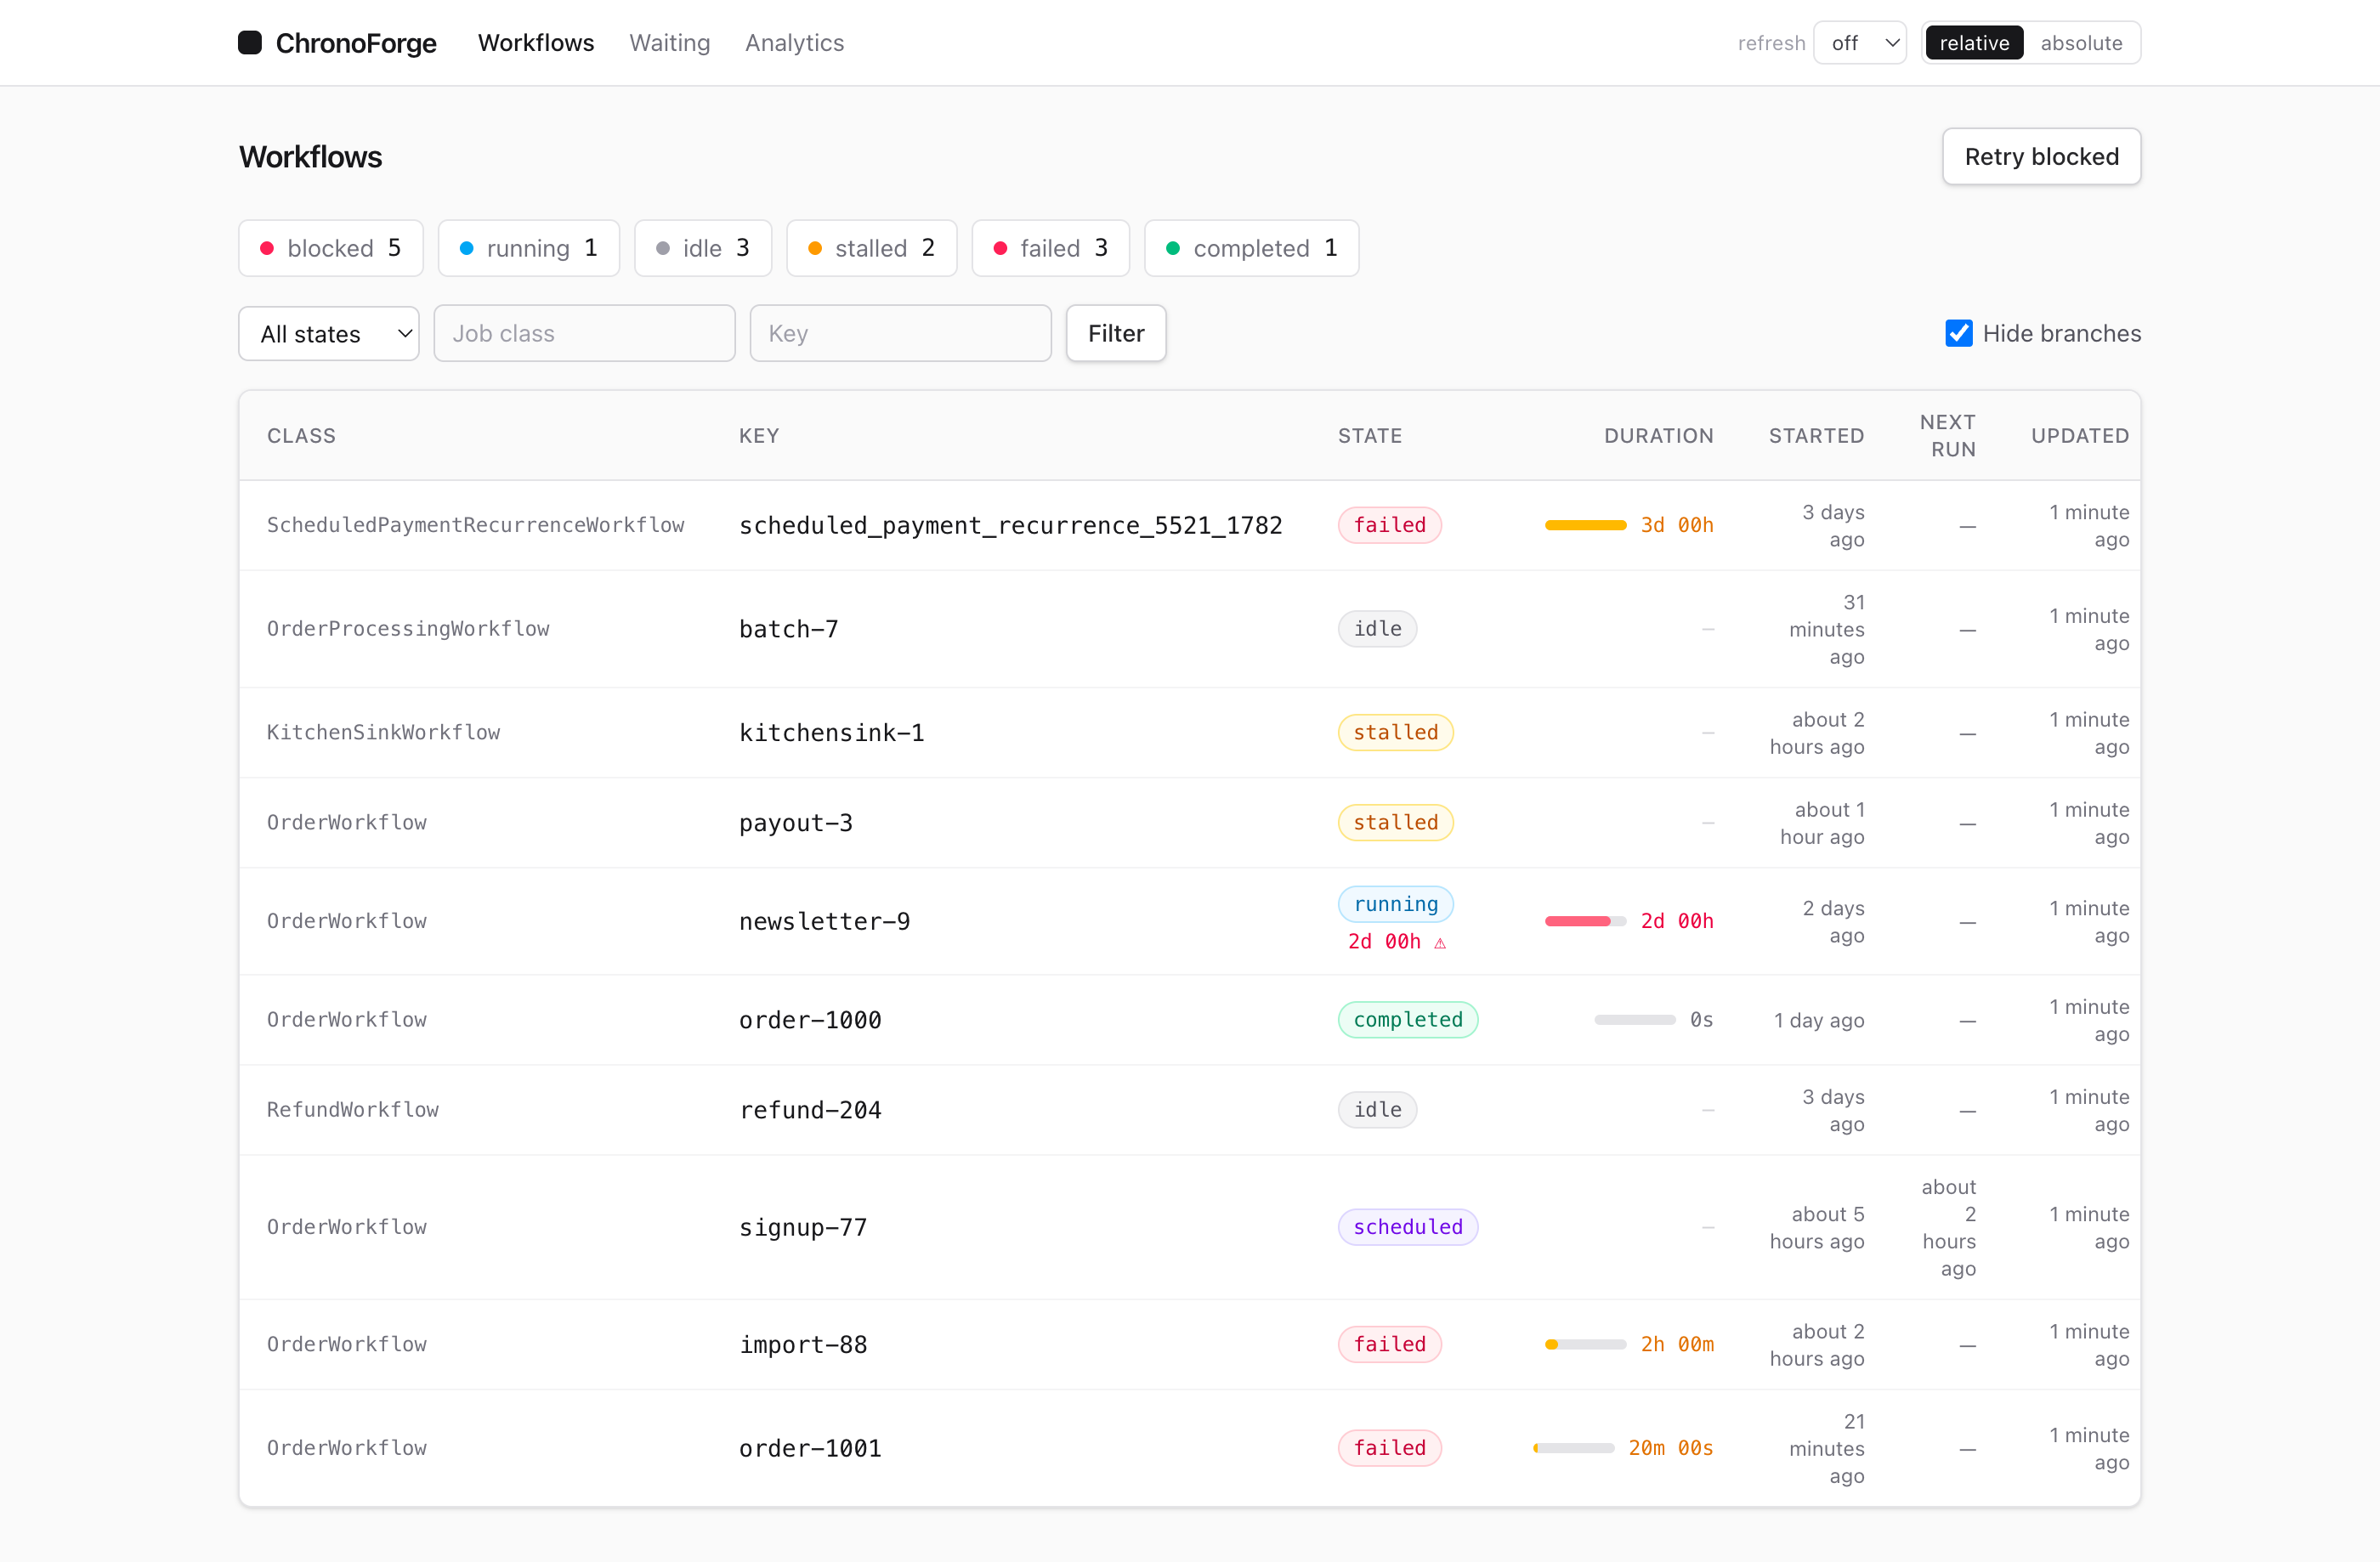
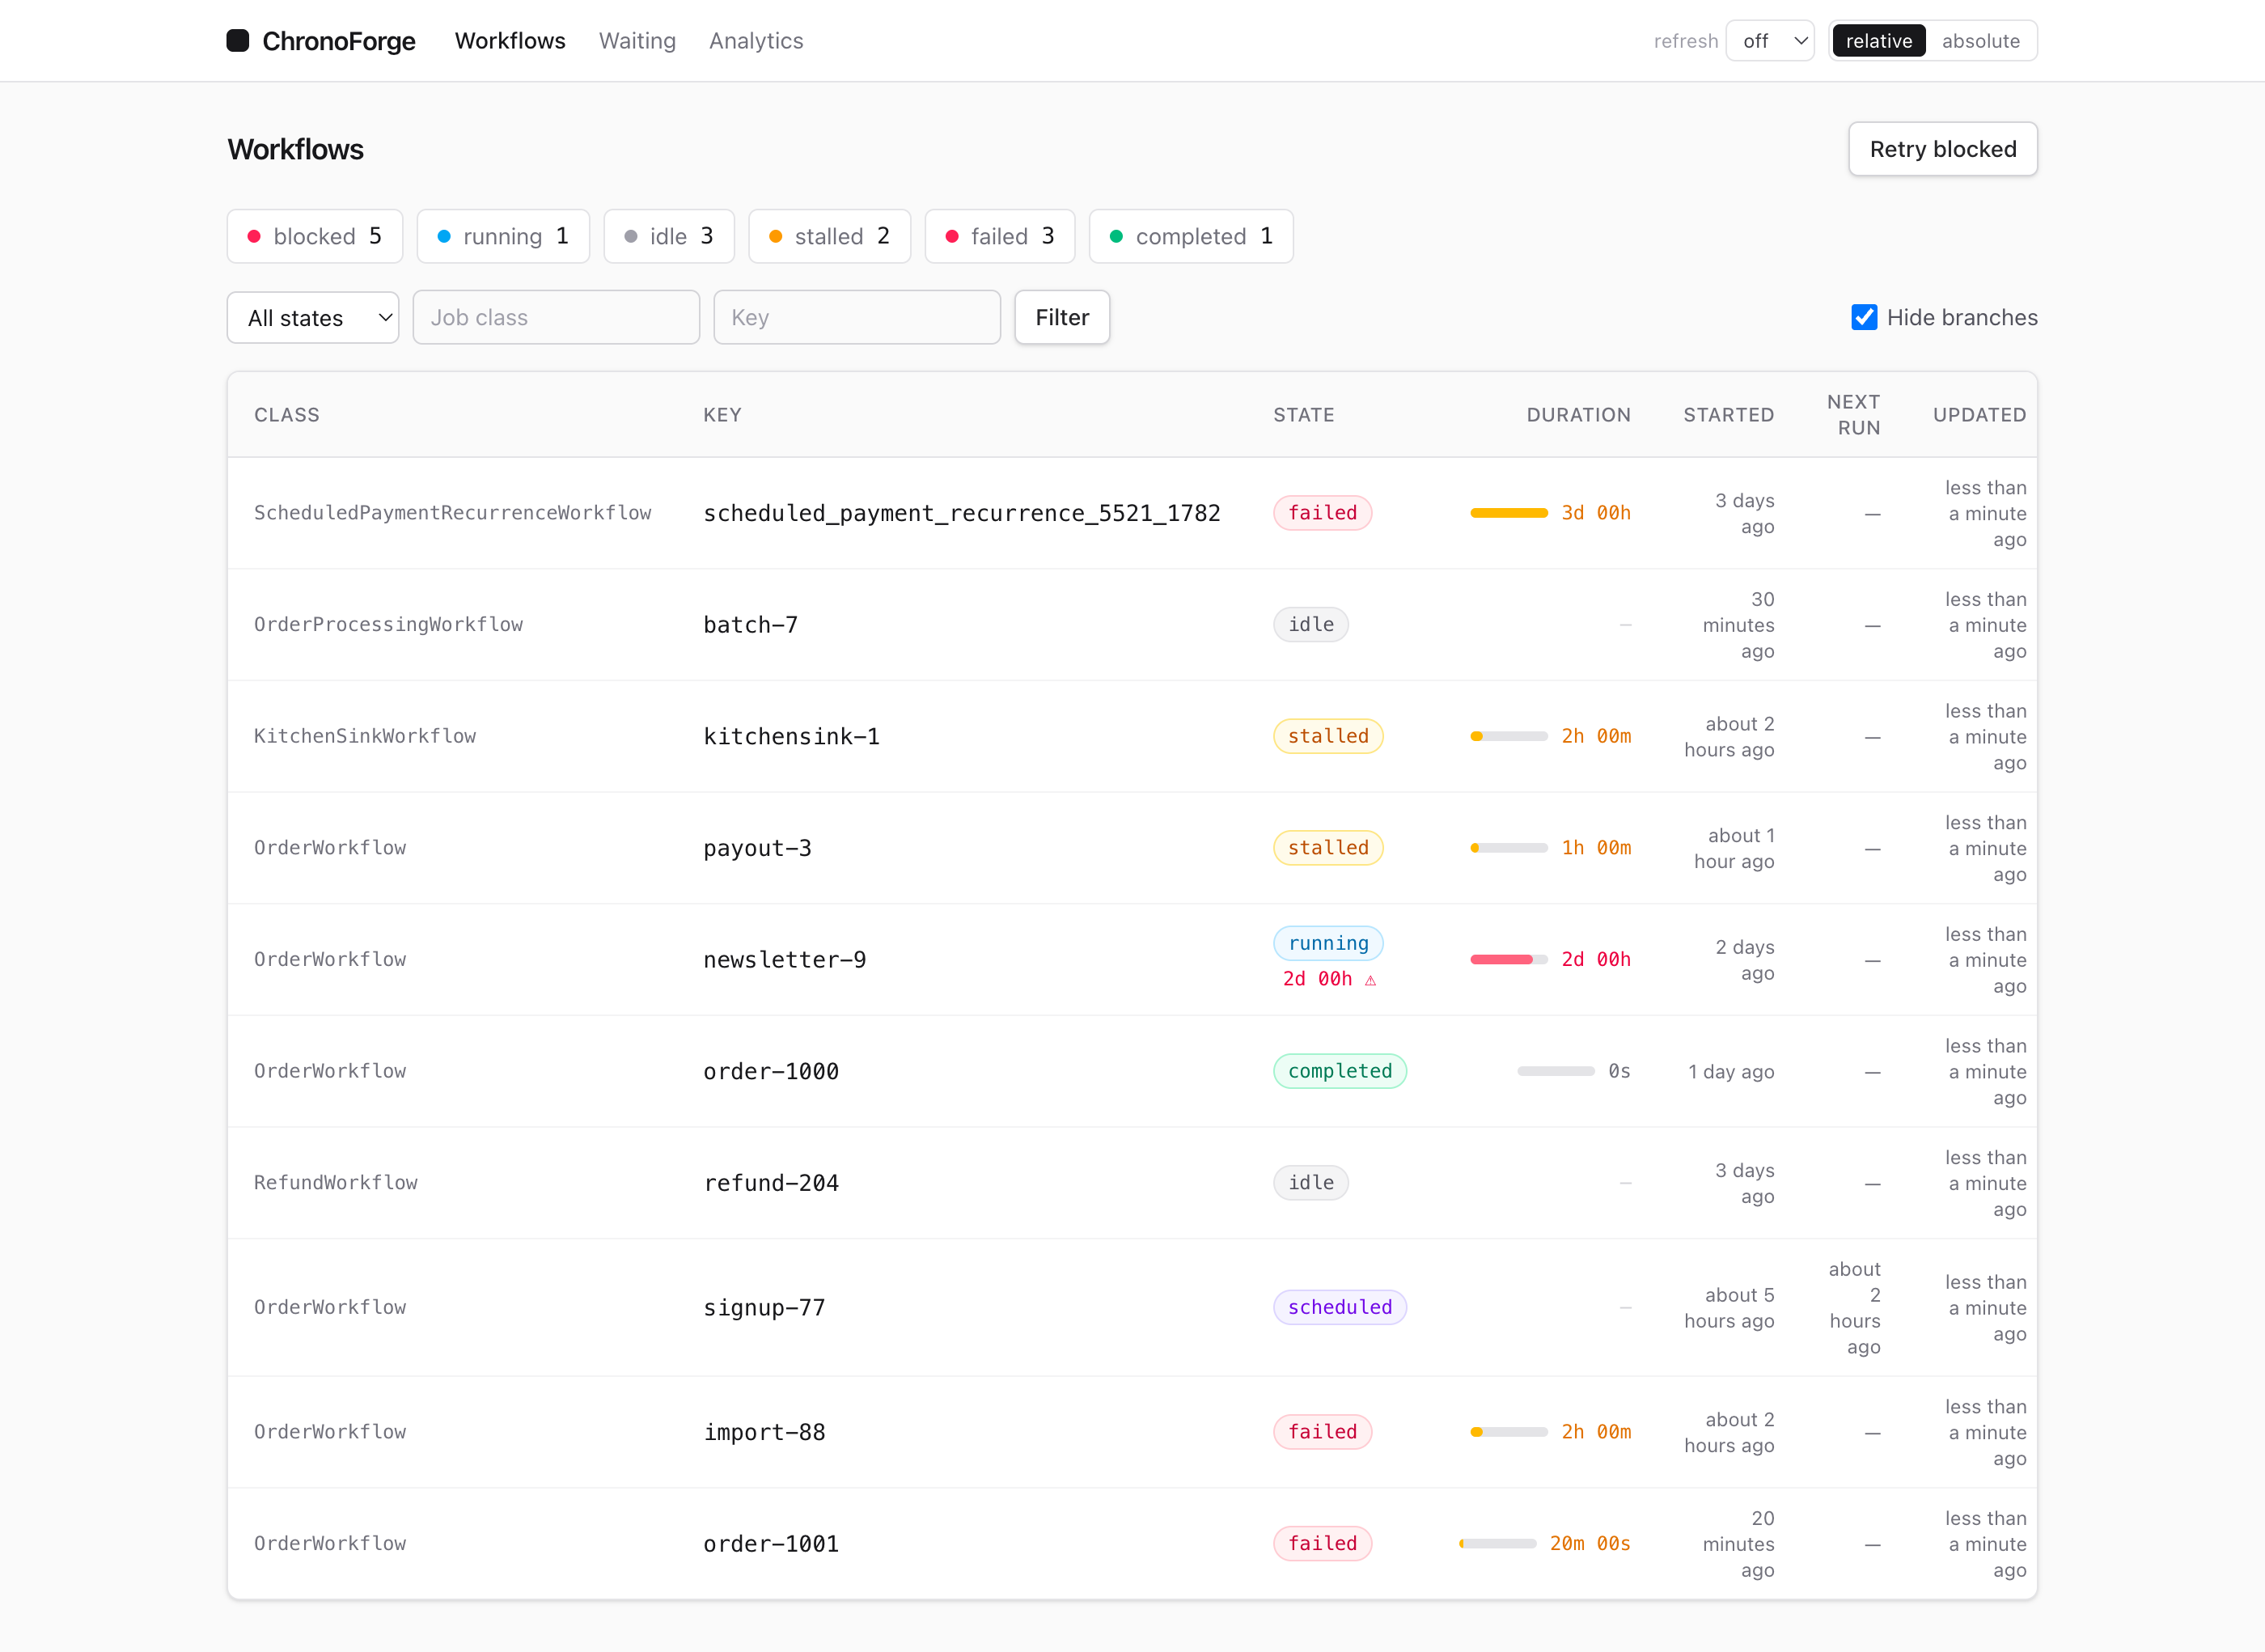
fix(dashboard): show a duration for stalled workflows, not just failed ones
A stalled workflow ran and then halted after exhausting a step's retries —
it has a real run span, exactly like a failed one — but cf_row_duration_secs
only handled failed?, so stalled rows showed "—" in the duration column.
Include stalled? (its updated_at is when it halted). Parked idle/scheduled
rows stay blank by design: their elapsed time is wait time, not run time.

Claude-Session: https://claude.ai/code/session_01GRx8a5mmTDuP8abV4WWpFa

diff --git a/chrono_forge-dashboard/test/dashboard_helper_test.rb b/chrono_forge-dashboard/test/dashboard_helper_test.rb
@@ -132,10 +132,12 @@ class DashboardHelperTest < ActionView::TestCase
     assert_in_delta(-50.0, trend[:failure], 0.1)
   end
 
-  test "cf_row_duration_secs: elapsed for live, final for terminal, nil for parked" do
+  test "cf_row_duration_secs: elapsed for live, final for ran-and-stopped, nil for parked" do
     assert_equal 30, cf_row_duration_secs(WorkflowStub.new(:completed, Time.current - 30, Time.current))
-    assert_nil cf_row_duration_secs(WorkflowStub.new(:idle, Time.current - 3600, nil))
-    assert_nil cf_row_duration_secs(WorkflowStub.new(:completed, nil, nil)) # never started
+    assert_equal 30, cf_row_duration_secs(WorkflowStub.new(:failed, Time.current - 30, Time.current))
+    assert_equal 30, cf_row_duration_secs(WorkflowStub.new(:stalled, Time.current - 30, Time.current)) # ran, then halted
+    assert_nil cf_row_duration_secs(WorkflowStub.new(:idle, Time.current - 3600, nil))       # parked on a wait
+    assert_nil cf_row_duration_secs(WorkflowStub.new(:completed, nil, nil))                   # never started
     live = cf_row_duration_secs(WorkflowStub.new(:running, Time.current - 120, nil))
     assert_operator live, :>=, 119
   end
@@ -146,5 +148,6 @@ class DashboardHelperTest < ActionView::TestCase
     def updated_at = ended_at
     def running? = state == :running
     def failed? = state == :failed
+    def stalled? = state == :stalled
   end
 end

diff --git a/chrono_forge-dashboard/app/helpers/chrono_forge/dashboard/dashboard_helper.rb b/chrono_forge-dashboard/app/helpers/chrono_forge/dashboard/dashboard_helper.rb
@@ -290,8 +290,9 @@ module ChronoForge
       end
 
       # Run length in seconds for a workflow row: elapsed for a live run, final
-      # span for a terminal one, nil for a parked (idle/scheduled) one whose
-      # "duration" would just be how long it's been waiting.
+      # span for a run that ran and stopped (completed / failed / stalled), nil
+      # for a parked (idle/scheduled) one whose "duration" would just be how long
+      # it's been waiting on a condition, not how long it actually ran.
       def cf_row_duration_secs(workflow)
         return nil unless workflow.started_at
         ending =
@@ -299,7 +300,7 @@ module ChronoForge
             workflow.completed_at
           elsif workflow.running?
             Time.current
-          elsif workflow.failed?
+          elsif workflow.failed? || workflow.stalled?
             workflow.updated_at
           end
         ending ? (ending - workflow.started_at).to_i : nil